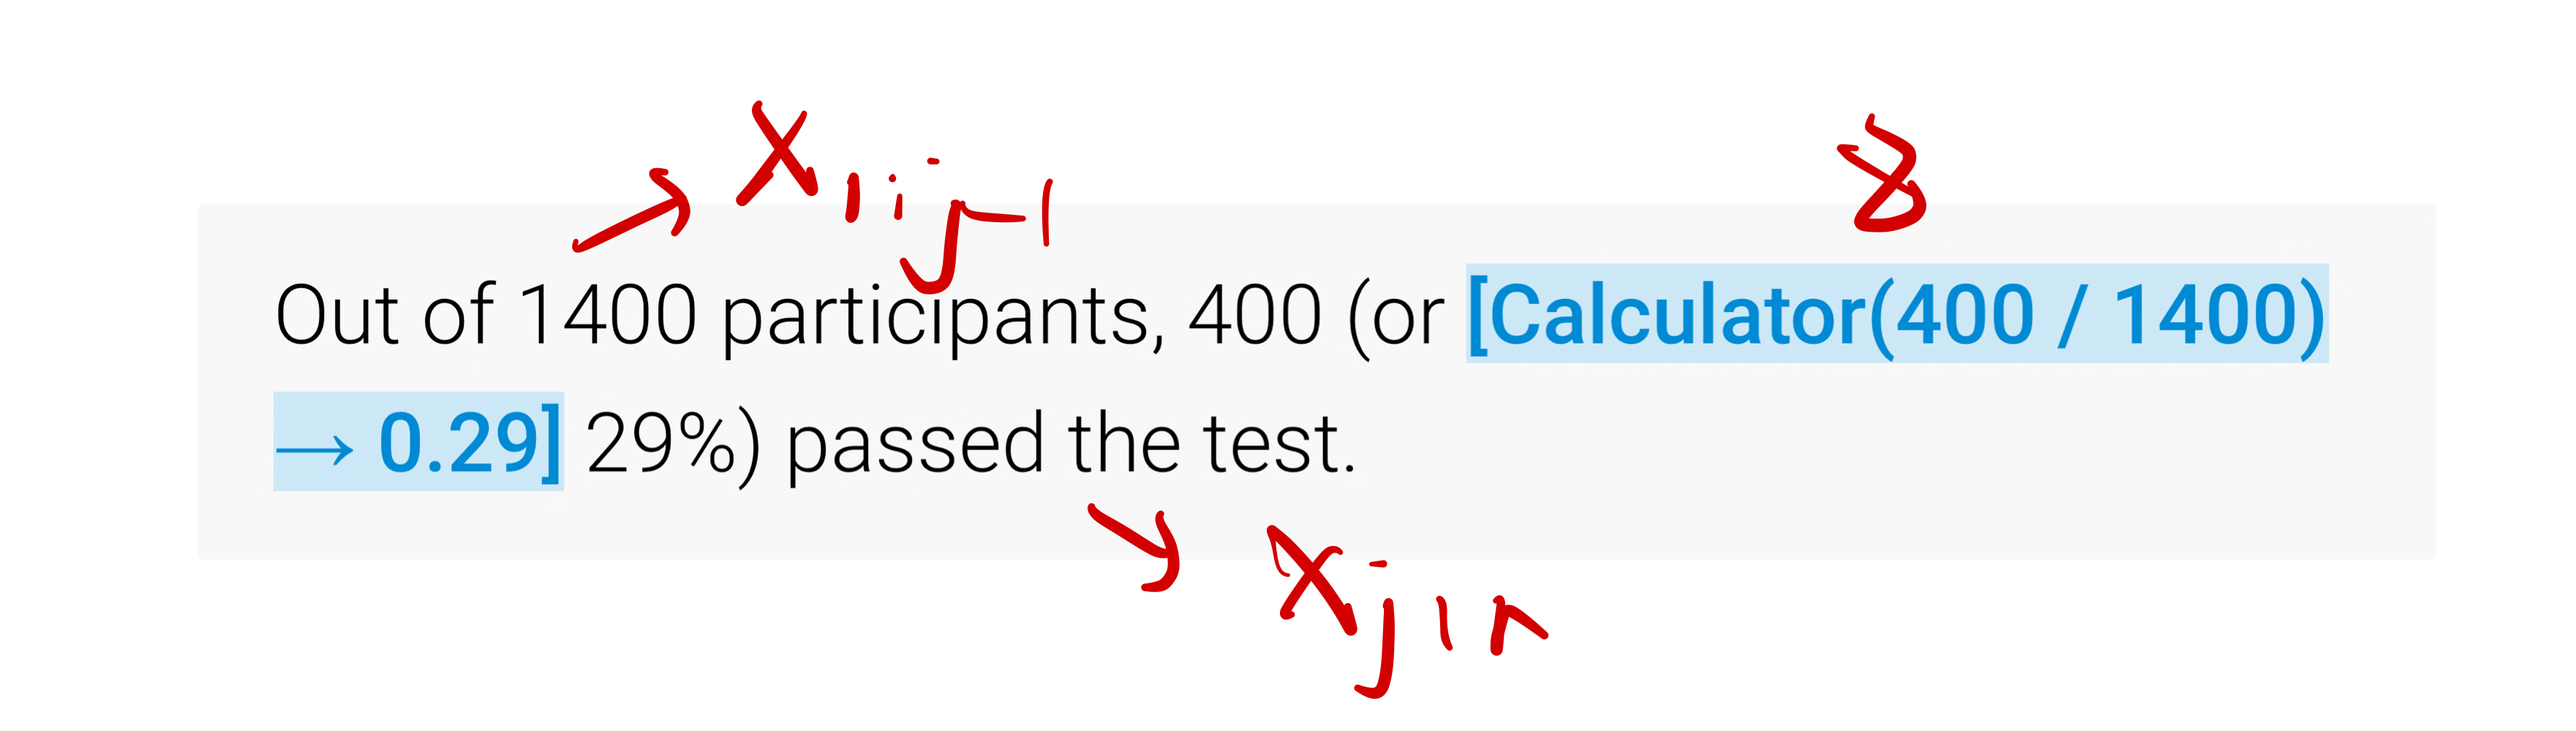
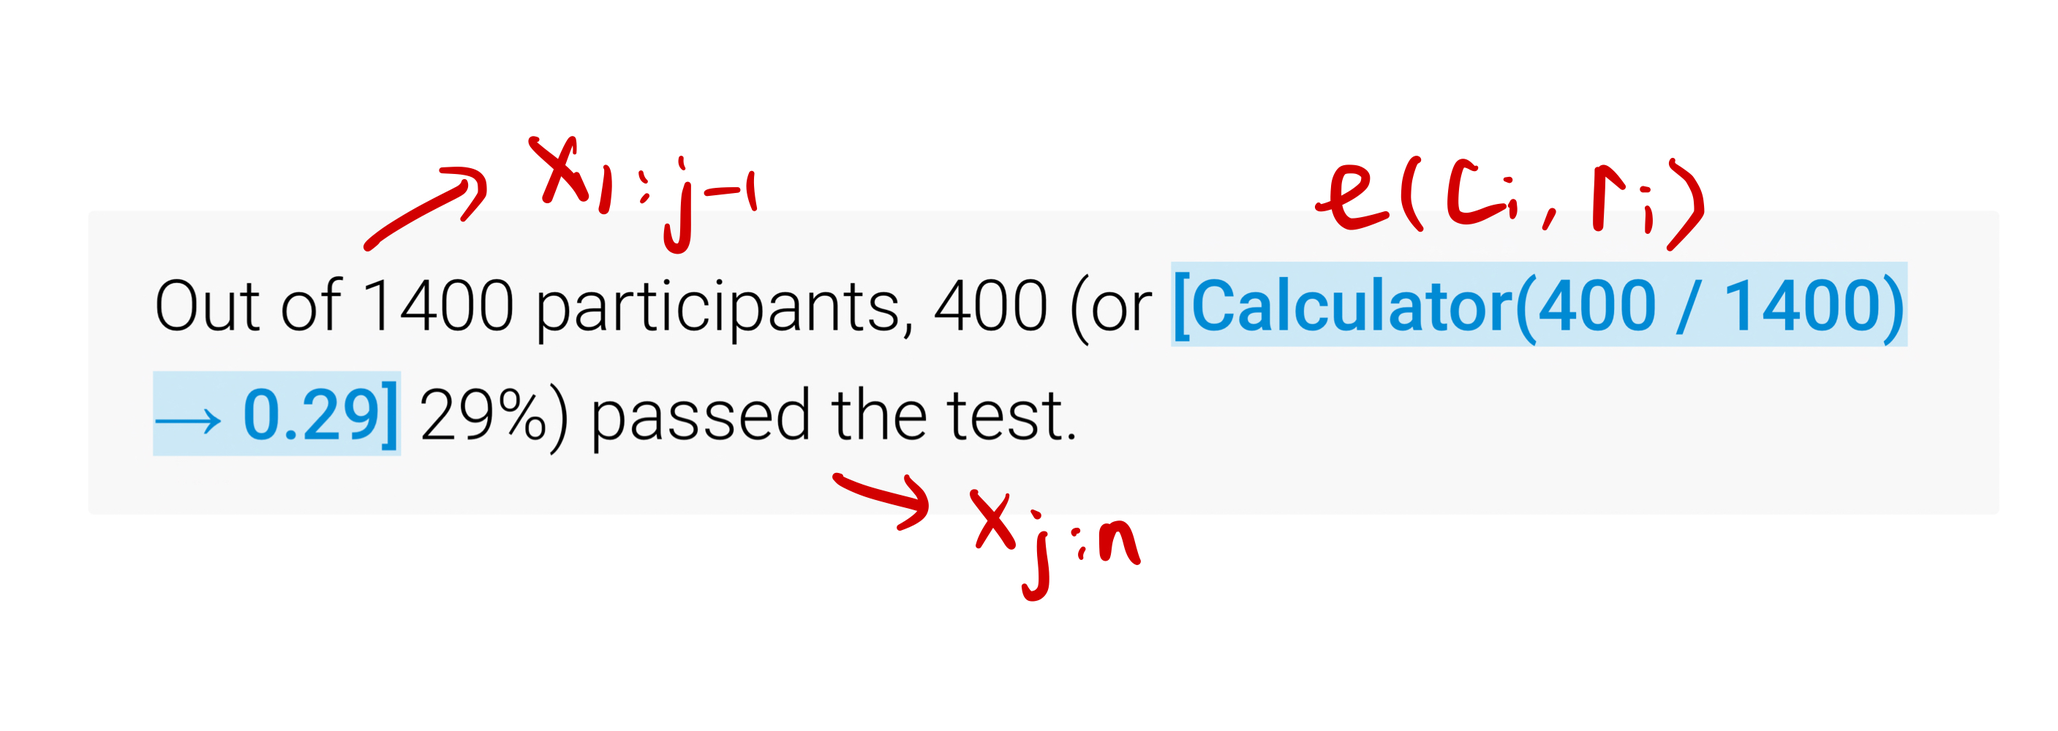
Site updated: 2023-06-14 16:49:56

Changed region(s): [[0.0618, 0.155, 0.9275, 0.496], [0.0618, 0.496, 0.6183, 0.961]]

diff --git a/2023/05/25/【文献阅读】Toolformer-Language-Models-Can-Teach-Themselves-to-Use-Tools/index.html b/2023/05/25/【文献阅读】Toolformer-Language-Models-Can-Teach-Themselves-to-Use-Tools/index.html
@@ -37,7 +37,7 @@
 <meta property="og:image" content="https://fengyan-wby.github.io/2023/05/25/%E3%80%90%E6%96%87%E7%8C%AE%E9%98%85%E8%AF%BB%E3%80%91Toolformer-Language-Models-Can-Teach-Themselves-to-Use-Tools/4.jpeg">
 <meta property="og:image" content="https://fengyan-wby.github.io/2023/05/25/%E3%80%90%E6%96%87%E7%8C%AE%E9%98%85%E8%AF%BB%E3%80%91Toolformer-Language-Models-Can-Teach-Themselves-to-Use-Tools/5.png">
 <meta property="article:published_time" content="2023-05-25T06:37:38.000Z">
-<meta property="article:modified_time" content="2023-06-14T03:17:21.177Z">
+<meta property="article:modified_time" content="2023-06-14T07:26:45.847Z">
 <meta property="article:author" content="FengYan">
 <meta property="article:tag" content="文献阅读">
 <meta property="article:tag" content="Toolformer">
@@ -518,7 +518,7 @@ if(canvas.getContext){
         <i class="far fa-calendar-check"></i>
       </span>
       <span class="post-meta-item-text">更新于</span>
-      <time title="修改时间：2023-06-14 11:17:21" itemprop="dateModified" datetime="2023-06-14T11:17:21+08:00">2023-06-14</time>
+      <time title="修改时间：2023-06-14 15:26:45" itemprop="dateModified" datetime="2023-06-14T15:26:45+08:00">2023-06-14</time>
     </span>
     <span class="post-meta-item">
       <span class="post-meta-item-icon">
@@ -559,7 +559,7 @@ if(canvas.getContext){
         <i class="far fa-file-word"></i>
       </span>
       <span class="post-meta-item-text">本文字数：</span>
-      <span>4.9k</span>
+      <span>5k</span>
     </span>
     <span class="post-meta-item" title="阅读时长">
       <span class="post-meta-item-icon">
@@ -618,7 +618,13 @@ e(c,r)=\langle API \rangle a_c(i_c)→r \langle /API \rangle
 <p>通过上述步骤得到多个API calls之后，就可以执行API调用得到<span class="math inline">\(c_i\)</span>对应的结果<span class="math inline">\(r_i\)</span>。</p>
 <h3 id="filtering-api-calls">Filtering API Calls</h3>
 <p>对于所有的API calls以及其结果，不是每一个都会对模型起正向作用，所以要进行过滤。 文章中通过损失函数对API calls进行过滤，如下所示： <span class="math display">\[L_i(z)=-\sum_{j=i}^nw_{j-i} \log p_M(x_j|z,x_{1:j-1})\]</span> 其中i是API calls <span class="math inline">\(c_i\)</span>的位置，<span class="math inline">\(w\)</span>是权重。</p>
-<p>只有当API calls可以让模型<span class="math inline">\(M\)</span>更好的预测future tokens的时候才会被保留，即： <span class="math display">\[L_i(e(c_i,r_i)) \leq min(L_i(\epsilon),L_i(e(c_i,\epsilon))) - \tau_f\]</span></p>
+<p>只有当API calls可以让模型<span class="math inline">\(M\)</span>更好的预测future tokens的时候才会被保留： <span class="math display">\[L_i(e(c_i,r_i)) \leq min(L_i(\epsilon),L_i(e(c_i,\epsilon))) - \tau_f\]</span></p>
+<p>将上式代入展开可得： <span class="math display">\[
+L_i(e(c_i,r_i))=-\sum_{j=i}^nw_{j-i} \log p_M(x_j|e(c_i,r_i),x_{1:j-1})  \\
+L_i(e(c_i,\epsilon))=-\sum_{j=i}^nw_{j-i} \log p_M(x_j|e(c_i),x_{1:j-1})  \\
+L_i(\epsilon)=-\sum_{j=i}^nw_{j-i} \log p_M(x_j|e(x_{1:j-1})
+\]</span></p>
+<p>即只有当API calls作为前缀所得到的损失要比没有API calls作为前缀的损失小，这条API calls才会被保留。</p>
 <div class="note info"><p>这里使用<span class="math inline">\(e(c_i,r_i)\)</span>作为前缀，而不是将其插入到位置i。这是因为模型还没有通过包含API调用的数据进行微调，因此将<span class="math inline">\(e(c_i,r_i)\)</span>插入到位置i会导致文本中断，而模型没有见过这种形式的文本，导致产生较高的困惑度。 <img src="/2023/05/25/%E3%80%90%E6%96%87%E7%8C%AE%E9%98%85%E8%AF%BB%E3%80%91Toolformer-Language-Models-Can-Teach-Themselves-to-Use-Tools/4.jpeg"></p>
 </div>
 <h3 id="model-finetuning">Model Finetuning</h3>

diff --git a/index.html b/index.html
@@ -1010,7 +1010,7 @@ if(canvas.getContext){
         <i class="far fa-calendar-check"></i>
       </span>
       <span class="post-meta-item-text">更新于</span>
-      <time title="修改时间：2023-06-14 11:17:21" itemprop="dateModified" datetime="2023-06-14T11:17:21+08:00">2023-06-14</time>
+      <time title="修改时间：2023-06-14 15:26:45" itemprop="dateModified" datetime="2023-06-14T15:26:45+08:00">2023-06-14</time>
     </span>
     <span class="post-meta-item">
       <span class="post-meta-item-icon">
@@ -1044,7 +1044,7 @@ if(canvas.getContext){
         <i class="far fa-file-word"></i>
       </span>
       <span class="post-meta-item-text">本文字数：</span>
-      <span>4.9k</span>
+      <span>5k</span>
     </span>
     <span class="post-meta-item" title="阅读时长">
       <span class="post-meta-item-icon">
